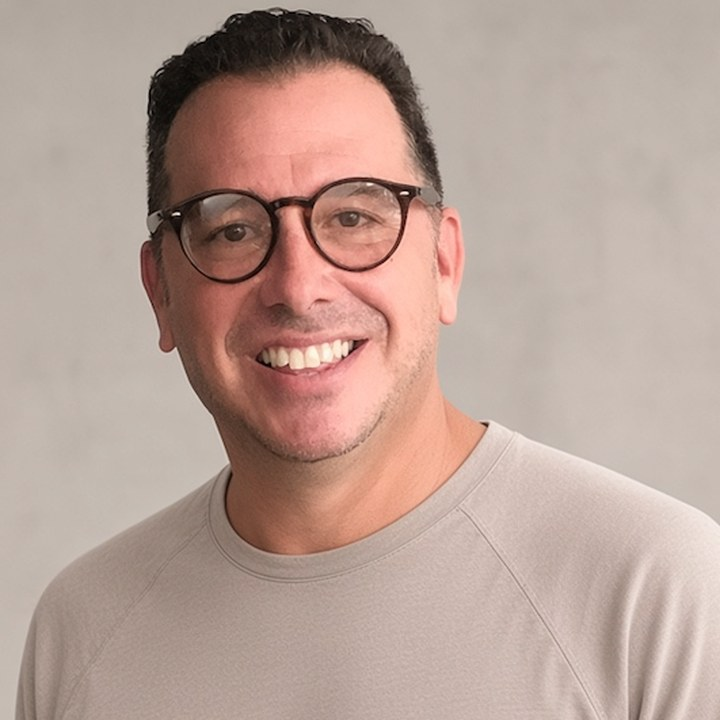
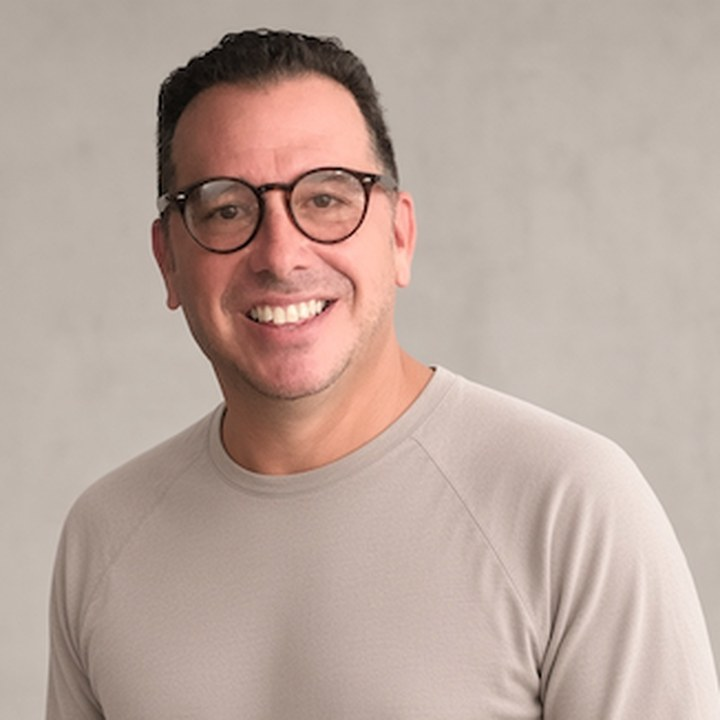
Nosotros: fix Rafael/Pepe framing, trim mobile grid to 3x2
1. Replaced rafael-aguirre.jpg and pepe-bermudez.jpg with the newly
   supplied re-shot avatars (avatar-nuevo-rafael-aguirre.png,
   avatar-nevo-pepe-bermúdez.png), which come pre-cropped much closer to
   the avatar-1..7 framing. Same processing pipeline as before (center
   crop to square, resize to 720x720 JPEG) — this time needing no extra
   zoom correction, since the new source photos already match the rest
   of the set's face-to-frame ratio. Same filenames, same HTML/CSS/JS,
   only the image bytes changed. Removed the raw root-level uploads.

2. Mobile grid now shows only 6 of the 9 photos (3 rows x 2 columns)
   instead of all 9, hiding avatar-5, avatar-6, avatar-7 (items 7-9) via
   display:none at the existing 640px breakpoint — Rafael and Pepe still
   lead. Desktop is unchanged: full 3x3 grid with the same spotlight
   hover effect.

Verified with Playwright: desktop shows all 9 with corrected framing,
mobile (iPhone 13 emulation) shows exactly 6 in a 3x2 grid, zero
horizontal overflow. Impeccable detector reports no findings.

Claude-Session: https://claude.ai/code/session_01UWjkDqFXp236QdbmxGtwXE

Changed region(s): [[0.0, 0.0, 1.0, 1.0], [0.6417, 0.7028, 0.6722, 0.7333], [0.3667, 0.9778, 0.3972, 1.0]]

diff --git a/public/blocks/about-teaser/about-teaser.css b/public/blocks/about-teaser/about-teaser.css
@@ -257,12 +257,14 @@
     grid-template-columns: repeat(2, 1fr);
   }
 
-  /* Two-column grid, 9 photos: the last one is the odd one out — center
-     it under the pairs above it instead of leaving it pinned left. */
+  /* Mobile shows a tighter 3x2 grid (6 photos) instead of all 9 — keeps
+     the section shorter to scroll through on a phone. Desktop keeps the
+     full 3x3. Rafael and Pepe (items 1-2) always stay, so the trimmed
+     set still leads with real leadership. */
+  .cm-about__photo:nth-child(7),
+  .cm-about__photo:nth-child(8),
   .cm-about__photo:nth-child(9) {
-    grid-column: 1 / -1;
-    max-width: calc(50% - clamp(0.5rem, 3vw, 0.75rem) / 2);
-    margin-inline: auto;
+    display: none;
   }
 
   .cm-about__title {
